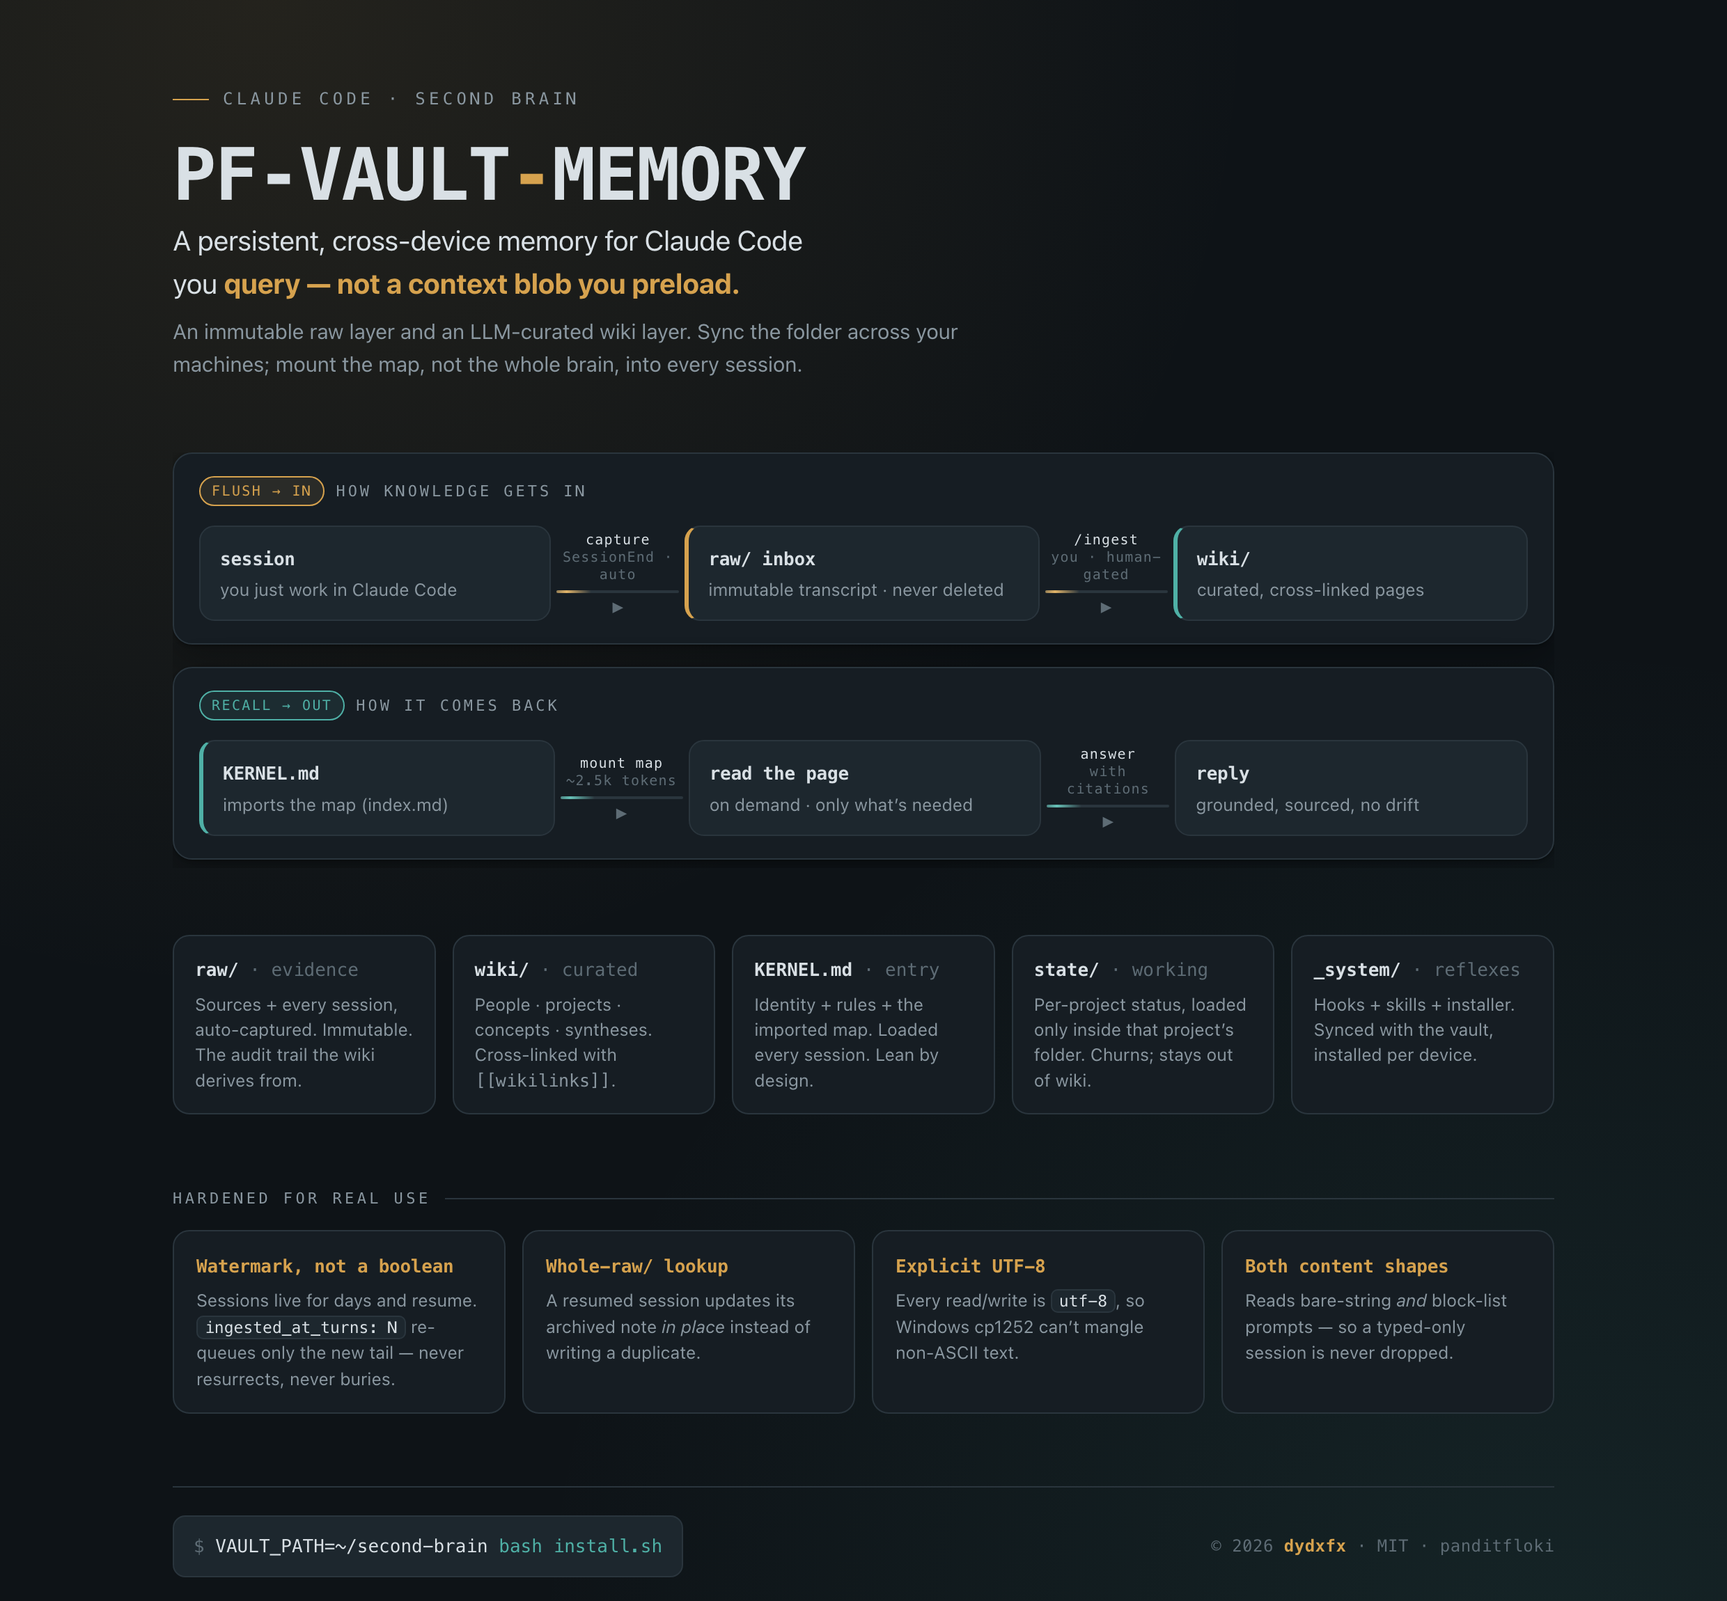
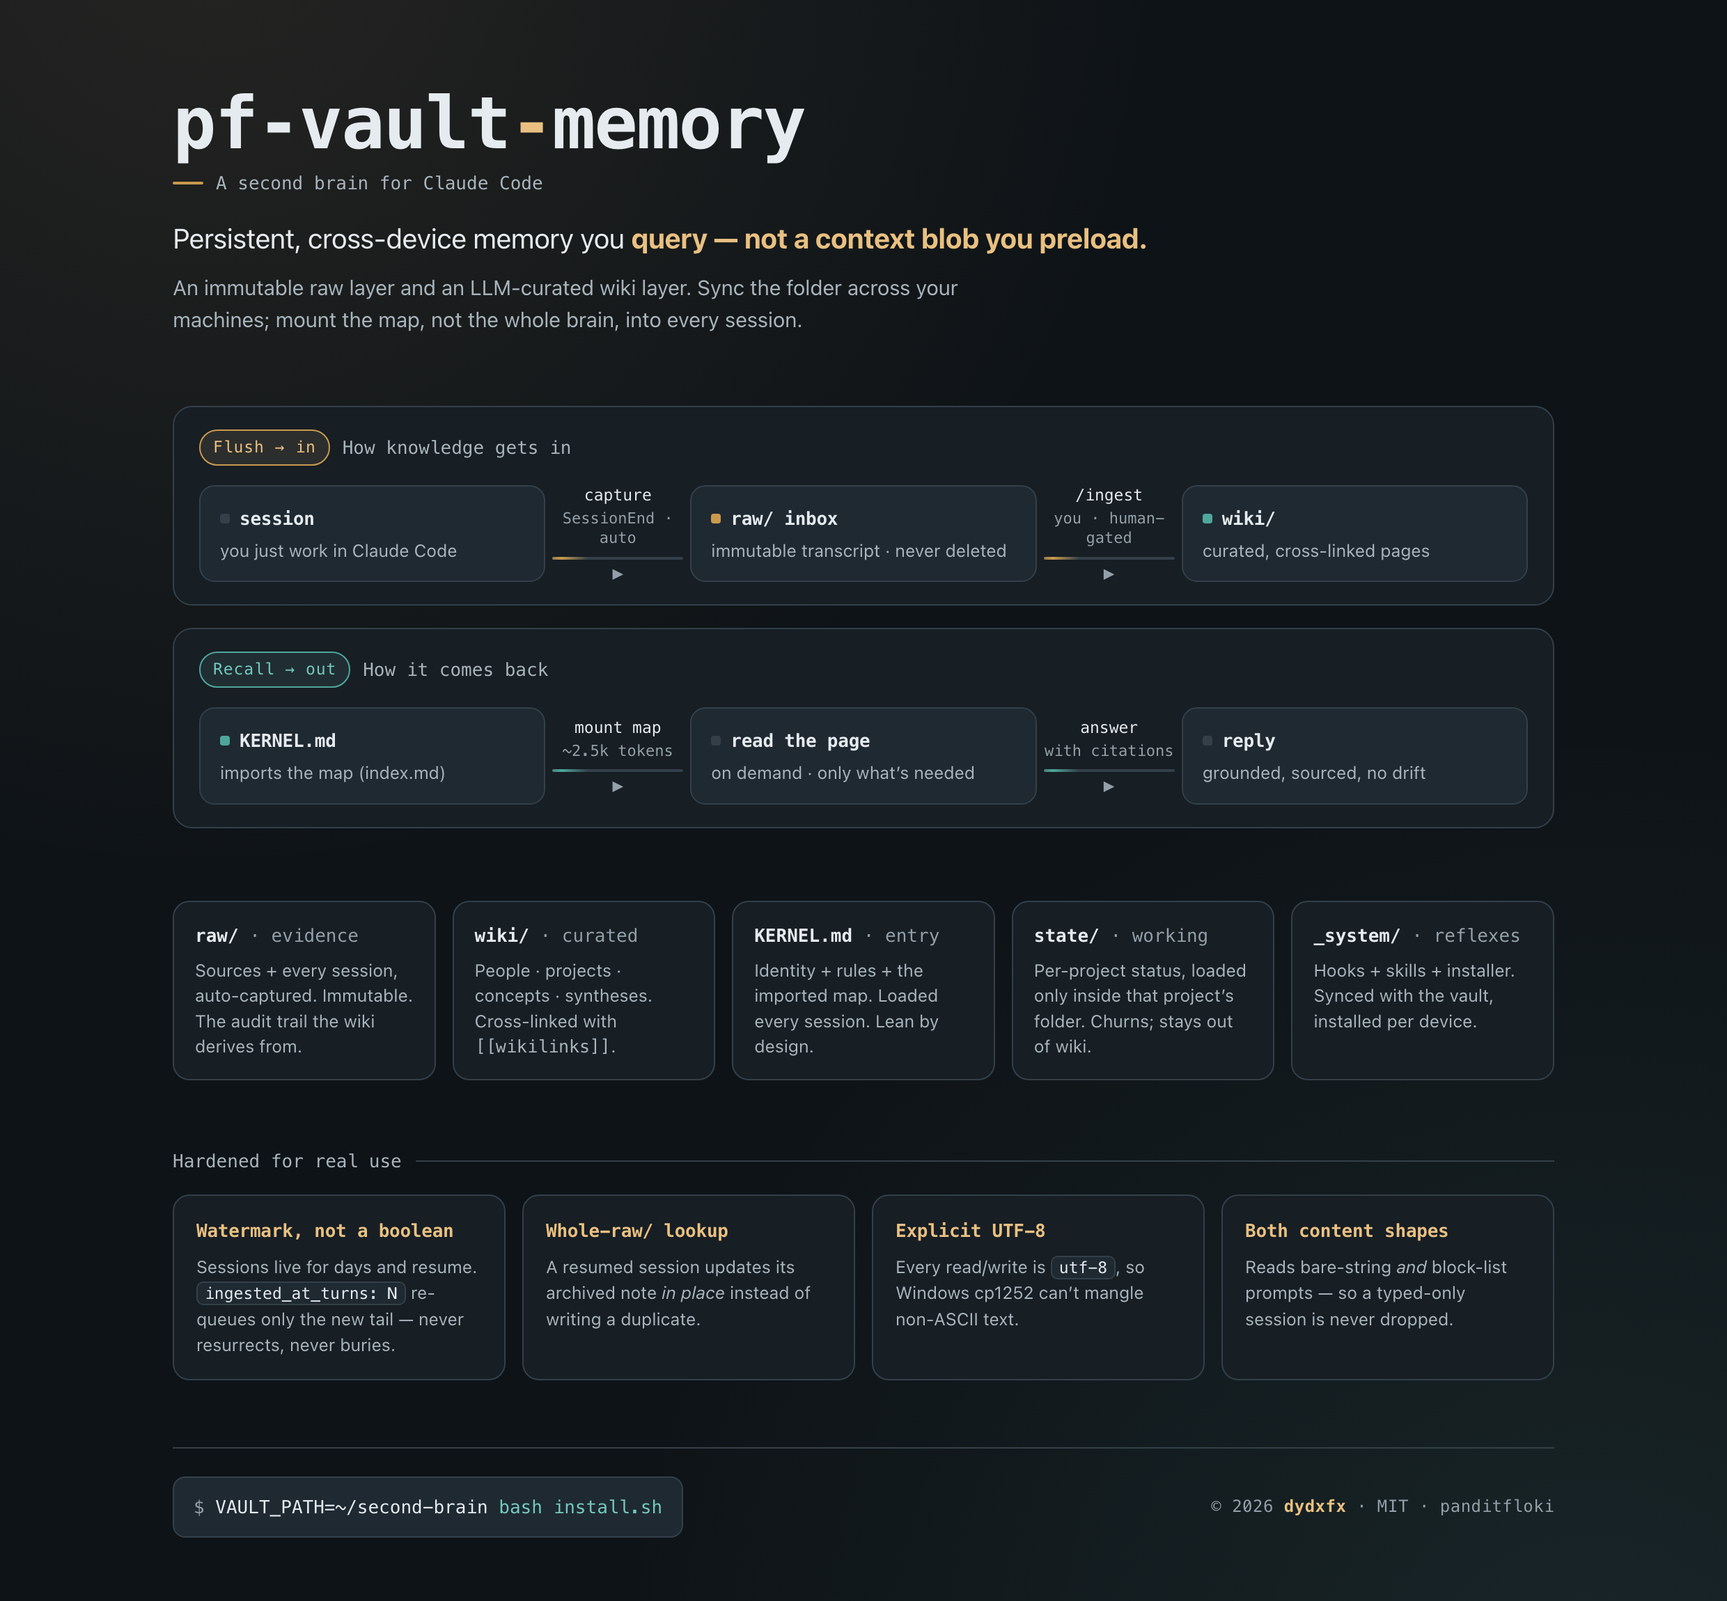
docs: fix 23 design/accessibility defects in the architecture diagram
Found by `npx impeccable@3.3.1 detect` — 59 deterministic rules, no LLM.

- low-contrast (6): every failure was a DARK-theme token being measured against
  white, because the detector cannot resolve a theme set only via
  @media (prefers-color-scheme: dark). Verified with four probe files: the dark
  palette now lives behind :root[data-theme="dark"], stamped by a small script
  from prefers-color-scheme, so every colour pair is statically checkable while
  OS preference, the ?theme= param and the viewer's toggle all still work.
  Also fixed a real light-theme failure the detector did not catch: --faint
  #87949C on the light ground was ~2.6:1.
- undersized-ui-text (10): all 10px functional labels raised to 11.5px.
- side-tab (3): 3px left rails replaced with small marker dots.
- gpt-thin-border-wide-shadow (2): dropped the wide shadow, kept the border.
- hero-eyebrow-chip (1): removed; the kicker now sits under the headline.
- all-caps-body (1): lane and section labels are sentence case.

Also adds <meta charset="utf-8">. Without it the page was byte-correct UTF-8 but
undeclared, so over HTTP browsers fell back to windows-1252 and rendered the
footer as "Â© 2026 dydxfx Â· MIT". Same class as the cp1252 bug fixed in
vault_capture.py: the bytes were right, the encoding was never declared.

Both PNGs re-rendered. detect now reports 0 anti-patterns and 0 advisory.

diff --git a/docs/architecture.html b/docs/architecture.html
@@ -1,121 +1,108 @@
+<meta charset="utf-8">
 <title>pf-vault-memory — architecture</title>
 <style>
+  /* Light is the default cascade. Dark is applied via [data-theme="dark"], stamped by the
+     script at the bottom from prefers-color-scheme (or ?theme=, or the viewer's toggle). */
   :root {
-    --ground:#E7EAEC; --panel:#F3F5F6; --panel-2:#FBFCFC; --line:#CDD4D8;
-    --ink:#151B20; --muted:#5A666E; --faint:#87949C;
-    --brass:#8C601F; --brass-soft:#B98A3C; --teal:#1C6763; --teal-soft:#2E8983;
-    --brass-wash:rgba(140,96,31,.09); --teal-wash:rgba(28,103,99,.09);
-    --shadow:0 1px 2px rgba(20,28,33,.06), 0 8px 24px rgba(20,28,33,.05);
+    --ground:#E9ECEE; --panel:#F7F8F9; --panel-2:#FDFDFE; --line:#C6CED3;
+    --ink:#11161A; --muted:#49545B; --soft:#5C686F;
+    --brass:#6B4711; --brass-line:#A97C33; --teal:#125450; --teal-line:#2C8079;
+    --brass-wash:rgba(107,71,17,.07); --teal-wash:rgba(18,84,80,.07);
     --mono:ui-monospace,"SF Mono","JetBrains Mono",Menlo,Consolas,monospace;
     --sans:ui-sans-serif,system-ui,-apple-system,"Segoe UI",Roboto,sans-serif;
   }
-  @media (prefers-color-scheme:dark){
-    :root{
-      --ground:#0E1317; --panel:#161D23; --panel-2:#1D272E; --line:#2A353D;
-      --ink:#D9E0E5; --muted:#8A97A0; --faint:#5E6C75;
-      --brass:#D6A24E; --brass-soft:#E0B368; --teal:#4FB0A6; --teal-soft:#67C1B7;
-      --brass-wash:rgba(214,162,78,.11); --teal-wash:rgba(79,176,166,.11);
-      --shadow:0 1px 2px rgba(0,0,0,.3), 0 10px 30px rgba(0,0,0,.28);
-    }
-  }
-  :root[data-theme="light"]{
-    --ground:#E7EAEC; --panel:#F3F5F6; --panel-2:#FBFCFC; --line:#CDD4D8;
-    --ink:#151B20; --muted:#5A666E; --faint:#87949C;
-    --brass:#8C601F; --brass-soft:#B98A3C; --teal:#1C6763; --teal-soft:#2E8983;
-    --brass-wash:rgba(140,96,31,.09); --teal-wash:rgba(28,103,99,.09);
-    --shadow:0 1px 2px rgba(20,28,33,.06), 0 8px 24px rgba(20,28,33,.05);
-  }
   :root[data-theme="dark"]{
-    --ground:#0E1317; --panel:#161D23; --panel-2:#1D272E; --line:#2A353D;
-    --ink:#D9E0E5; --muted:#8A97A0; --faint:#5E6C75;
-    --brass:#D6A24E; --brass-soft:#E0B368; --teal:#4FB0A6; --teal-soft:#67C1B7;
-    --brass-wash:rgba(214,162,78,.11); --teal-wash:rgba(79,176,166,.11);
-    --shadow:0 1px 2px rgba(0,0,0,.3), 0 10px 30px rgba(0,0,0,.28);
+    --ground:#0E1317; --panel:#171E24; --panel-2:#1F2932; --line:#33404A;
+    --ink:#E6EBEF; --muted:#A9B5BD; --soft:#93A0A9;
+    --brass:#E9C081; --brass-line:#C99A4E; --teal:#74C9BF; --teal-line:#4FA79C;
+    --brass-wash:rgba(233,192,129,.10); --teal-wash:rgba(116,201,191,.10);
   }
 
   *{box-sizing:border-box}
   body{margin:0;background:var(--ground);color:var(--ink);font-family:var(--sans);
        line-height:1.55;-webkit-font-smoothing:antialiased;
-       background-image:radial-gradient(circle at 15% 0%,var(--brass-wash),transparent 45%),
-                        radial-gradient(circle at 90% 100%,var(--teal-wash),transparent 45%);}
-  .wrap{max-width:1080px;margin:0 auto;padding:clamp(28px,5vw,64px) clamp(18px,4vw,44px)}
+       background-image:radial-gradient(circle at 12% -5%,var(--brass-wash),transparent 42%),
+                        radial-gradient(circle at 92% 105%,var(--teal-wash),transparent 42%);}
+  .wrap{max-width:1080px;margin:0 auto;padding:clamp(30px,5vw,64px) clamp(18px,4vw,44px)}
 
-  .eyebrow{font-family:var(--mono);font-size:12px;letter-spacing:.22em;text-transform:uppercase;
-           color:var(--muted);display:flex;align-items:center;gap:10px}
-  .eyebrow::before{content:"";width:26px;height:1px;background:var(--brass)}
-  h1{font-family:var(--mono);font-weight:700;letter-spacing:-.02em;text-transform:uppercase;
-     font-size:clamp(30px,6vw,52px);margin:.35em 0 .1em;text-wrap:balance;line-height:1.02}
+  h1{font-family:var(--mono);font-weight:700;letter-spacing:-.02em;
+     font-size:clamp(30px,6vw,52px);margin:0 0 .12em;text-wrap:balance;line-height:1.02;
+     color:var(--ink)}
   h1 .dot{color:var(--brass)}
-  .thesis{font-size:clamp(16px,2.4vw,20px);color:var(--ink);max-width:60ch;margin:.2em 0 0;text-wrap:balance}
+  .thesis{font-size:clamp(16px,2.4vw,20px);color:var(--ink);max-width:62ch;margin:.25em 0 0;text-wrap:balance}
   .thesis b{color:var(--brass)}
-  .sub{color:var(--muted);font-size:15px;margin-top:.5em;max-width:64ch}
+  .sub{color:var(--muted);font-size:15px;margin-top:.55em;max-width:66ch}
+  .kicker{font-family:var(--mono);font-size:13px;color:var(--muted);margin:0 0 1.1em;
+          display:flex;align-items:center;gap:9px}
+  .kicker::before{content:"";width:22px;height:2px;background:var(--brass-line);border-radius:2px}
 
-  .diagram{margin:clamp(30px,5vw,52px) 0 0;overflow-x:auto;padding-bottom:6px}
-  .board{min-width:660px;display:flex;flex-direction:column;gap:16px}
-  .lane{background:var(--panel);border:1px solid var(--line);border-radius:14px;
-        box-shadow:var(--shadow);padding:16px 18px}
-  .lane-head{font-family:var(--mono);font-size:11px;letter-spacing:.18em;text-transform:uppercase;
-             display:flex;align-items:center;gap:8px;margin-bottom:14px;color:var(--muted)}
-  .tag{font-family:var(--mono);font-size:10px;letter-spacing:.12em;padding:2px 8px;border-radius:999px;
-       text-transform:uppercase;border:1px solid transparent}
-  .tag.in{color:var(--brass);border-color:var(--brass);background:var(--brass-wash)}
-  .tag.out{color:var(--teal);border-color:var(--teal);background:var(--teal-wash)}
+  .diagram{margin:clamp(30px,5vw,50px) 0 0;overflow-x:auto;padding-bottom:6px}
+  .board{min-width:680px;display:flex;flex-direction:column;gap:16px}
+  .lane{background:var(--panel);border:1px solid var(--line);border-radius:14px;padding:16px 18px}
+  .lane-head{font-family:var(--mono);font-size:13px;display:flex;align-items:center;gap:9px;
+             margin-bottom:14px;color:var(--muted)}
+  .tag{font-family:var(--mono);font-size:11.5px;letter-spacing:.04em;padding:3px 9px;border-radius:999px;
+       border:1px solid transparent}
+  .tag.in{color:var(--brass);border-color:var(--brass-line);background:var(--brass-wash)}
+  .tag.out{color:var(--teal);border-color:var(--teal-line);background:var(--teal-wash)}
 
   .flow{display:flex;align-items:stretch;gap:0}
-  .node{flex:1;min-width:118px;background:var(--panel-2);border:1px solid var(--line);
-         border-radius:11px;padding:13px 14px;display:flex;flex-direction:column;gap:3px}
-  .node .k{font-family:var(--mono);font-size:13px;font-weight:600;letter-spacing:-.01em}
-  .node .d{font-size:12.5px;color:var(--muted);line-height:1.4}
-  .node.raw{border-left:3px solid var(--brass)}
-  .node.wiki{border-left:3px solid var(--teal)}
+  .node{flex:1;min-width:124px;background:var(--panel-2);border:1px solid var(--line);
+        border-radius:11px;padding:13px 14px;display:flex;flex-direction:column;gap:4px}
+  .node .k{font-family:var(--mono);font-size:13px;font-weight:600;letter-spacing:-.01em;
+           display:flex;align-items:center;gap:7px}
+  .node .d{font-size:12.5px;color:var(--muted);line-height:1.42}
+  /* marker dot instead of a thick side rail */
+  .node .k::before{content:"";width:7px;height:7px;border-radius:2px;flex:none;
+                   background:var(--line)}
+  .node.raw .k::before{background:var(--brass-line)}
+  .node.wiki .k::before{background:var(--teal-line)}
 
-  .arrow{flex:0 0 96px;display:flex;flex-direction:column;align-items:center;justify-content:center;
-          gap:5px;padding:0 4px;position:relative}
-  .arrow .lbl{font-family:var(--mono);font-size:10px;letter-spacing:.06em;color:var(--ink);
-              text-align:center;line-height:1.25}
-  .arrow .lbl .who{color:var(--faint)}
-  .track{width:100%;height:2px;background:linear-gradient(90deg,var(--line),var(--line));
-          border-radius:2px;position:relative;overflow:hidden}
+  .arrow{flex:0 0 104px;display:flex;flex-direction:column;align-items:center;justify-content:center;
+          gap:6px;padding:0 5px}
+  .arrow .lbl{font-family:var(--mono);font-size:11.5px;color:var(--ink);text-align:center;line-height:1.3}
+  .arrow .lbl .who{display:block;color:var(--soft);font-size:11px;margin-top:2px}
+  .track{width:100%;height:2px;background:var(--line);border-radius:2px;position:relative;overflow:hidden}
   .track::after{content:"";position:absolute;inset:0;width:40%;border-radius:2px;
                 background:linear-gradient(90deg,transparent,var(--accent),transparent);
                 animation:flow 2.6s linear infinite}
-  .arrow.b .track::after{--accent:var(--brass-soft)} .arrow.t .track::after{--accent:var(--teal-soft)}
-  .arrow .head{font-family:var(--mono);color:var(--faint);font-size:13px;line-height:1;margin-top:-2px}
+  .arrow.b .track::after{--accent:var(--brass-line)} .arrow.t .track::after{--accent:var(--teal-line)}
+  .arrow .head{font-family:var(--mono);color:var(--soft);font-size:13px;line-height:1;margin-top:-3px}
   @keyframes flow{from{transform:translateX(-120%)}to{transform:translateX(320%)}}
   @media (prefers-reduced-motion:reduce){.track::after{animation:none;left:30%}}
 
-  .layers{display:grid;grid-template-columns:repeat(auto-fit,minmax(150px,1fr));gap:12px;
-          margin-top:clamp(30px,5vw,48px)}
+  .layers{display:grid;grid-template-columns:repeat(auto-fit,minmax(158px,1fr));gap:12px;
+          margin-top:clamp(30px,5vw,46px)}
   .layer{background:var(--panel);border:1px solid var(--line);border-radius:12px;padding:14px 15px}
   .layer .n{font-family:var(--mono);font-size:13px;font-weight:600;color:var(--ink)}
-  .layer .n span{color:var(--faint);font-weight:400}
+  .layer .n span{color:var(--soft);font-weight:400}
   .layer p{margin:6px 0 0;font-size:12.5px;color:var(--muted);line-height:1.45}
 
-  .section-label{font-family:var(--mono);font-size:11px;letter-spacing:.2em;text-transform:uppercase;
-                 color:var(--muted);margin:clamp(34px,5vw,52px) 0 14px;display:flex;align-items:center;gap:10px}
+  .section-label{font-family:var(--mono);font-size:13px;color:var(--muted);
+                 margin:clamp(32px,5vw,48px) 0 14px;display:flex;align-items:center;gap:10px}
   .section-label::after{content:"";flex:1;height:1px;background:var(--line)}
 
-  .hard{display:grid;grid-template-columns:repeat(auto-fit,minmax(210px,1fr));gap:12px}
+  .hard{display:grid;grid-template-columns:repeat(auto-fit,minmax(212px,1fr));gap:12px}
   .card{background:var(--panel);border:1px solid var(--line);border-radius:12px;padding:15px 16px}
-  .card h3{font-family:var(--mono);font-size:13px;margin:0 0 5px;letter-spacing:-.01em;color:var(--brass)}
+  .card h3{font-family:var(--mono);font-size:13px;margin:0 0 6px;letter-spacing:-.01em;color:var(--brass)}
   .card p{margin:0;font-size:12.5px;color:var(--muted);line-height:1.5}
   .card code{font-family:var(--mono);font-size:11.5px;background:var(--panel-2);color:var(--ink);
              padding:1px 5px;border-radius:5px;border:1px solid var(--line)}
 
-  footer{margin-top:clamp(34px,5vw,52px);border-top:1px solid var(--line);padding-top:20px;
+  footer{margin-top:clamp(32px,5vw,48px);border-top:1px solid var(--line);padding-top:20px;
          display:flex;flex-wrap:wrap;gap:14px 24px;align-items:center;justify-content:space-between}
   .cmd{font-family:var(--mono);font-size:13px;background:var(--panel-2);border:1px solid var(--line);
        border-radius:9px;padding:11px 14px;color:var(--ink);overflow-x:auto;white-space:nowrap}
-  .cmd .p{color:var(--teal)} .cmd .c{color:var(--faint)}
-  .credit{font-family:var(--mono);font-size:12px;color:var(--faint);letter-spacing:.02em}
+  .cmd .p{color:var(--teal)} .cmd .c{color:var(--soft)}
+  .credit{font-family:var(--mono);font-size:12px;color:var(--soft);letter-spacing:.02em}
   .credit b{color:var(--brass);font-weight:600}
 </style>
 
 <div class="wrap">
   <header>
-    <div class="eyebrow">Claude&nbsp;Code · second&nbsp;brain</div>
     <h1>pf&#8209;vault<span class="dot">&#8209;</span>memory</h1>
-    <p class="thesis">A persistent, cross-device memory for Claude Code you <b>query — not a context blob you preload.</b></p>
+    <p class="kicker">A second brain for Claude Code</p>
+    <p class="thesis">Persistent, cross-device memory you <b>query — not a context blob you preload.</b></p>
     <p class="sub">An immutable raw layer and an LLM-curated wiki layer. Sync the folder across your machines; mount the map, not the whole brain, into every session.</p>
   </header>
 
@@ -123,23 +110,23 @@
     <div class="board">
 
       <div class="lane">
-        <div class="lane-head"><span class="tag in">Flush → in</span> how knowledge gets in</div>
+        <div class="lane-head"><span class="tag in">Flush &rarr; in</span> How knowledge gets in</div>
         <div class="flow">
           <div class="node"><span class="k">session</span><span class="d">you just work in Claude Code</span></div>
-          <div class="arrow b"><span class="lbl">capture<br><span class="who">SessionEnd · auto</span></span><span class="track"></span><span class="head">▶</span></div>
+          <div class="arrow b"><span class="lbl">capture<span class="who">SessionEnd · auto</span></span><span class="track"></span><span class="head">&#9654;</span></div>
           <div class="node raw"><span class="k">raw/ inbox</span><span class="d">immutable transcript · never deleted</span></div>
-          <div class="arrow b"><span class="lbl">/ingest<br><span class="who">you · human-gated</span></span><span class="track"></span><span class="head">▶</span></div>
+          <div class="arrow b"><span class="lbl">/ingest<span class="who">you · human-gated</span></span><span class="track"></span><span class="head">&#9654;</span></div>
           <div class="node wiki"><span class="k">wiki/</span><span class="d">curated, cross-linked pages</span></div>
         </div>
       </div>
 
       <div class="lane">
-        <div class="lane-head"><span class="tag out">Recall → out</span> how it comes back</div>
+        <div class="lane-head"><span class="tag out">Recall &rarr; out</span> How it comes back</div>
         <div class="flow">
           <div class="node wiki"><span class="k">KERNEL.md</span><span class="d">imports the map (index.md)</span></div>
-          <div class="arrow t"><span class="lbl">mount map<br><span class="who">~2.5k tokens</span></span><span class="track"></span><span class="head">▶</span></div>
+          <div class="arrow t"><span class="lbl">mount map<span class="who">~2.5k tokens</span></span><span class="track"></span><span class="head">&#9654;</span></div>
           <div class="node"><span class="k">read the page</span><span class="d">on demand · only what’s needed</span></div>
-          <div class="arrow t"><span class="lbl">answer<br><span class="who">with citations</span></span><span class="track"></span><span class="head">▶</span></div>
+          <div class="arrow t"><span class="lbl">answer<span class="who">with citations</span></span><span class="track"></span><span class="head">&#9654;</span></div>
           <div class="node"><span class="k">reply</span><span class="d">grounded, sourced, no drift</span></div>
         </div>
       </div>
@@ -170,12 +157,21 @@
 </div>
 
 <script>
-  // keep the viewer's theme toggle authoritative in both directions
+  // Theme resolution, in priority order: ?theme= → an already-stamped data-theme
+  // (the viewer's toggle) → the OS preference. Kept in JS so the dark palette lives
+  // behind [data-theme], which keeps every colour pair statically checkable.
   (function () {
     var root = document.documentElement;
-    try {
-      var t = new URLSearchParams(location.search).get('theme');
-      if (t === 'dark' || t === 'light') root.setAttribute('data-theme', t);
-    } catch (e) {}
+    var forced = null;
+    try { forced = new URLSearchParams(location.search).get('theme'); } catch (e) {}
+    if (forced === 'dark' || forced === 'light') { root.setAttribute('data-theme', forced); return; }
+    if (root.getAttribute('data-theme')) return;
+    var mq = window.matchMedia && window.matchMedia('(prefers-color-scheme: dark)');
+    if (mq && mq.matches) root.setAttribute('data-theme', 'dark');
+    if (mq && mq.addEventListener) {
+      mq.addEventListener('change', function (e) {
+        if (!forced) root.setAttribute('data-theme', e.matches ? 'dark' : 'light');
+      });
+    }
   })();
 </script>
